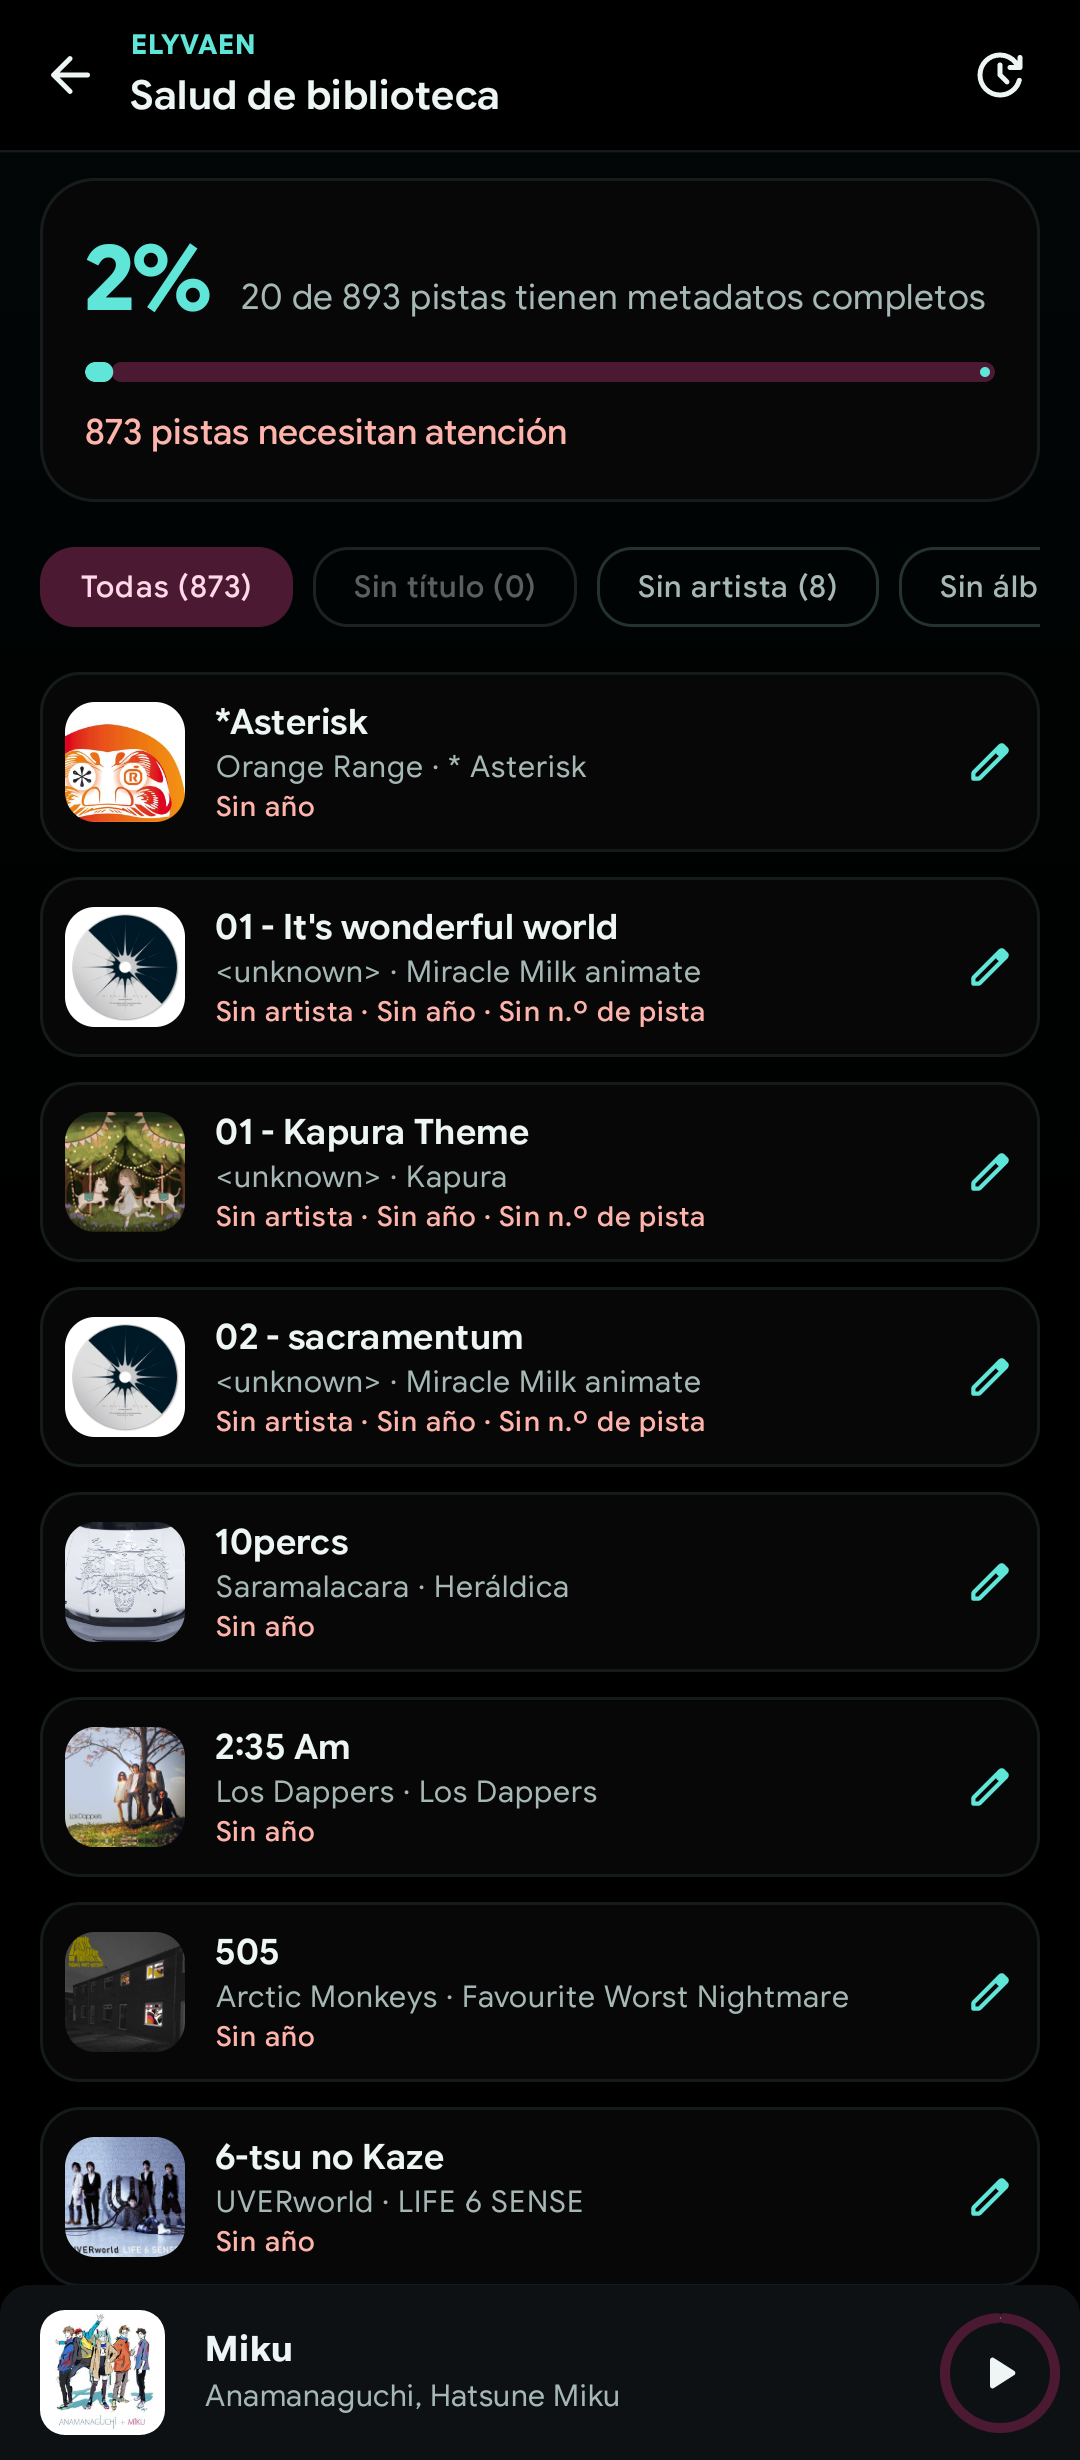
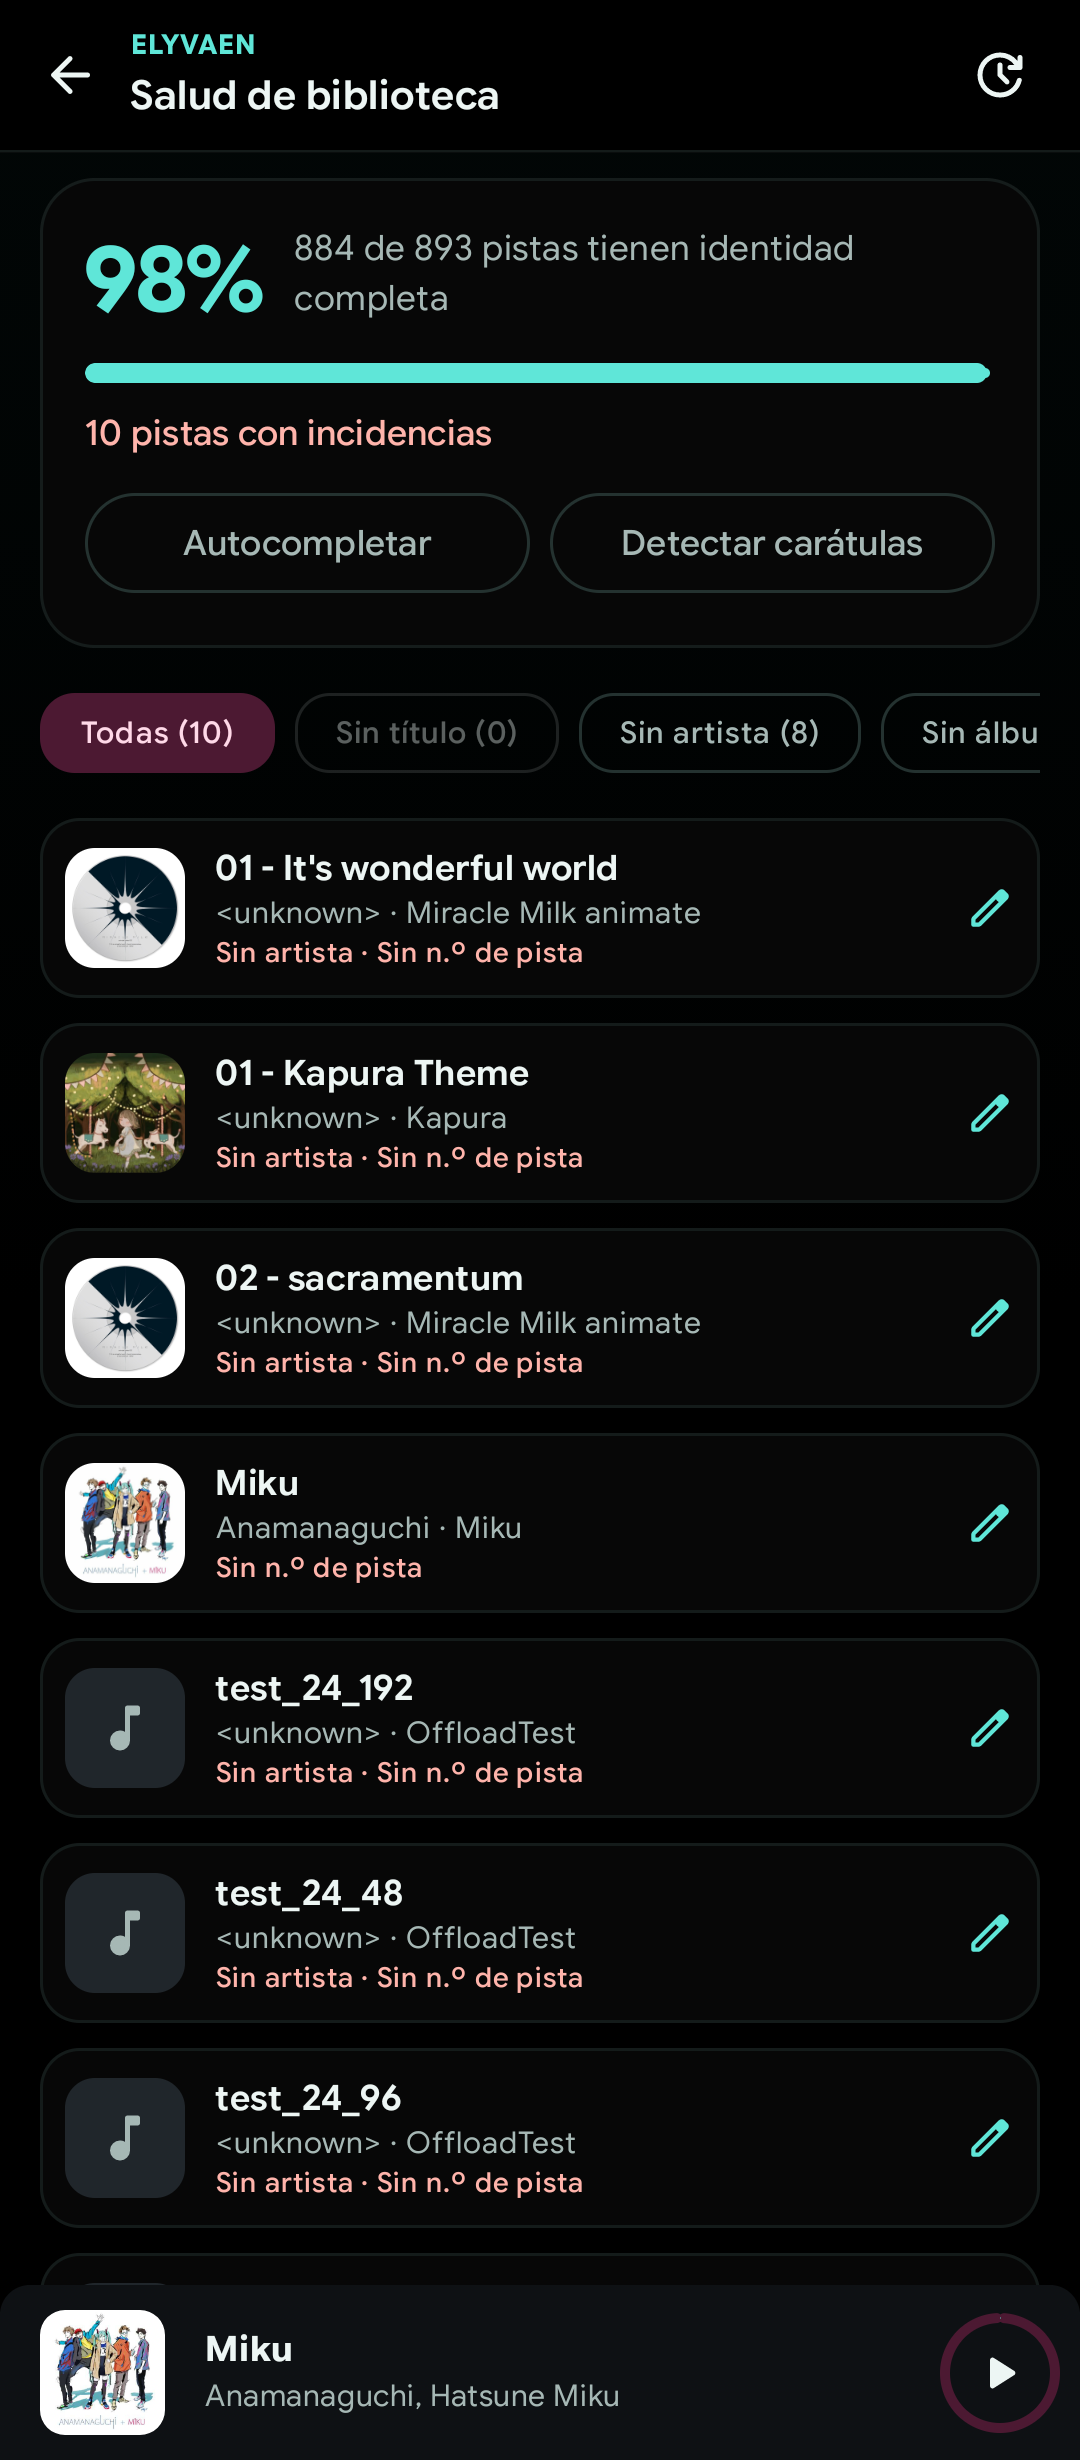
docs: record the improved library health results

diff --git a/docs/ecosystem-roadmap.md b/docs/ecosystem-roadmap.md
@@ -370,16 +370,33 @@ mini-player/90 Hz verificados.
 
 - `MetadataHealthFragment` analiza las pistas visibles y calcula un porcentaje
   de metadatos completos, excluyendo silenciados y ocultos.
-- Detecta: sin título, sin artista, sin álbum, sin año, sin número de pista y
-  grupos de posibles duplicados (título + artista normalizados).
+- Detecta: sin título, sin artista, sin álbum, sin número de pista, sin
+  carátula y grupos de posibles duplicados (título + artista normalizados).
+- El **año no se usa en el análisis rápido**: en este dispositivo MediaStore
+  deja `YEAR` nulo en FLAC aunque el archivo tenga `DATE` (se comprobó con
+  *505* y *Asterisk*); marcarlo daba cientos de falsos positivos. Se sigue
+  pudiendo editar en el editor.
+- El score principal mide la **identidad** (título, artista y álbum); las
+  incidencias restantes se muestran aparte para no ocultar trabajo pendiente.
 - La pantalla tiene filtros por problema y una lista con la etiqueta de cada
   incidencia. Tocar una pista abre el editor de etiquetas existente; al volver,
   la salud se recalcula.
+- **Detectar carátulas** comprueba la portada embebida con TagLib y, si no
+  existe, la carátula que MediaStore tiene para el álbum (la que usa la app).
+  Los archivos ilegibles se tratan como desconocidos, no como faltantes.
+- **Autocompletar** rellena solo álbum (y año si también falta) de hasta 10
+  pistas con artista conocido. Consulta MusicBrainz con una pausa de 1,1 s y,
+  si no responde o no encuentra el tema, usa Deezer como respaldo. Nunca
+  sobrescribe etiquetas existentes y muestra un resumen. Las pistas sin artista
+  se dejan para edición manual para no aplicar coincidencias dudosas.
+- Verificado en el Moto G51: 893 pistas, **98 % de identidad**, 10 incidencias
+  (8 sin artista, varias sin número de pista), **0 carátulas faltantes** tras
+  el escaneo y ningún álbum vacío que autocompletar. Las carátulas visibles
+  de MediaStore evitan falsos positivos.
 - Acceso desde la tarjeta **Salud de biblioteca** de Home y desde el menú de la
   biblioteca.
 - Inspirado en Metadator, pero **sin copiar código AGPL**: usa MediaStore,
-  TagLib y las pantallas de edición que Elyvaen ya tenía. El autoarreglo por
-  lotes con MusicBrainz/Deezer/LRCLIB queda para una fase posterior.
+  TagLib, MusicBrainz, Deezer y las pantallas de edición que Elyvaen ya tenía.
 
 ## Discord: webhook de “ahora suena” (2026-11-22)
 
